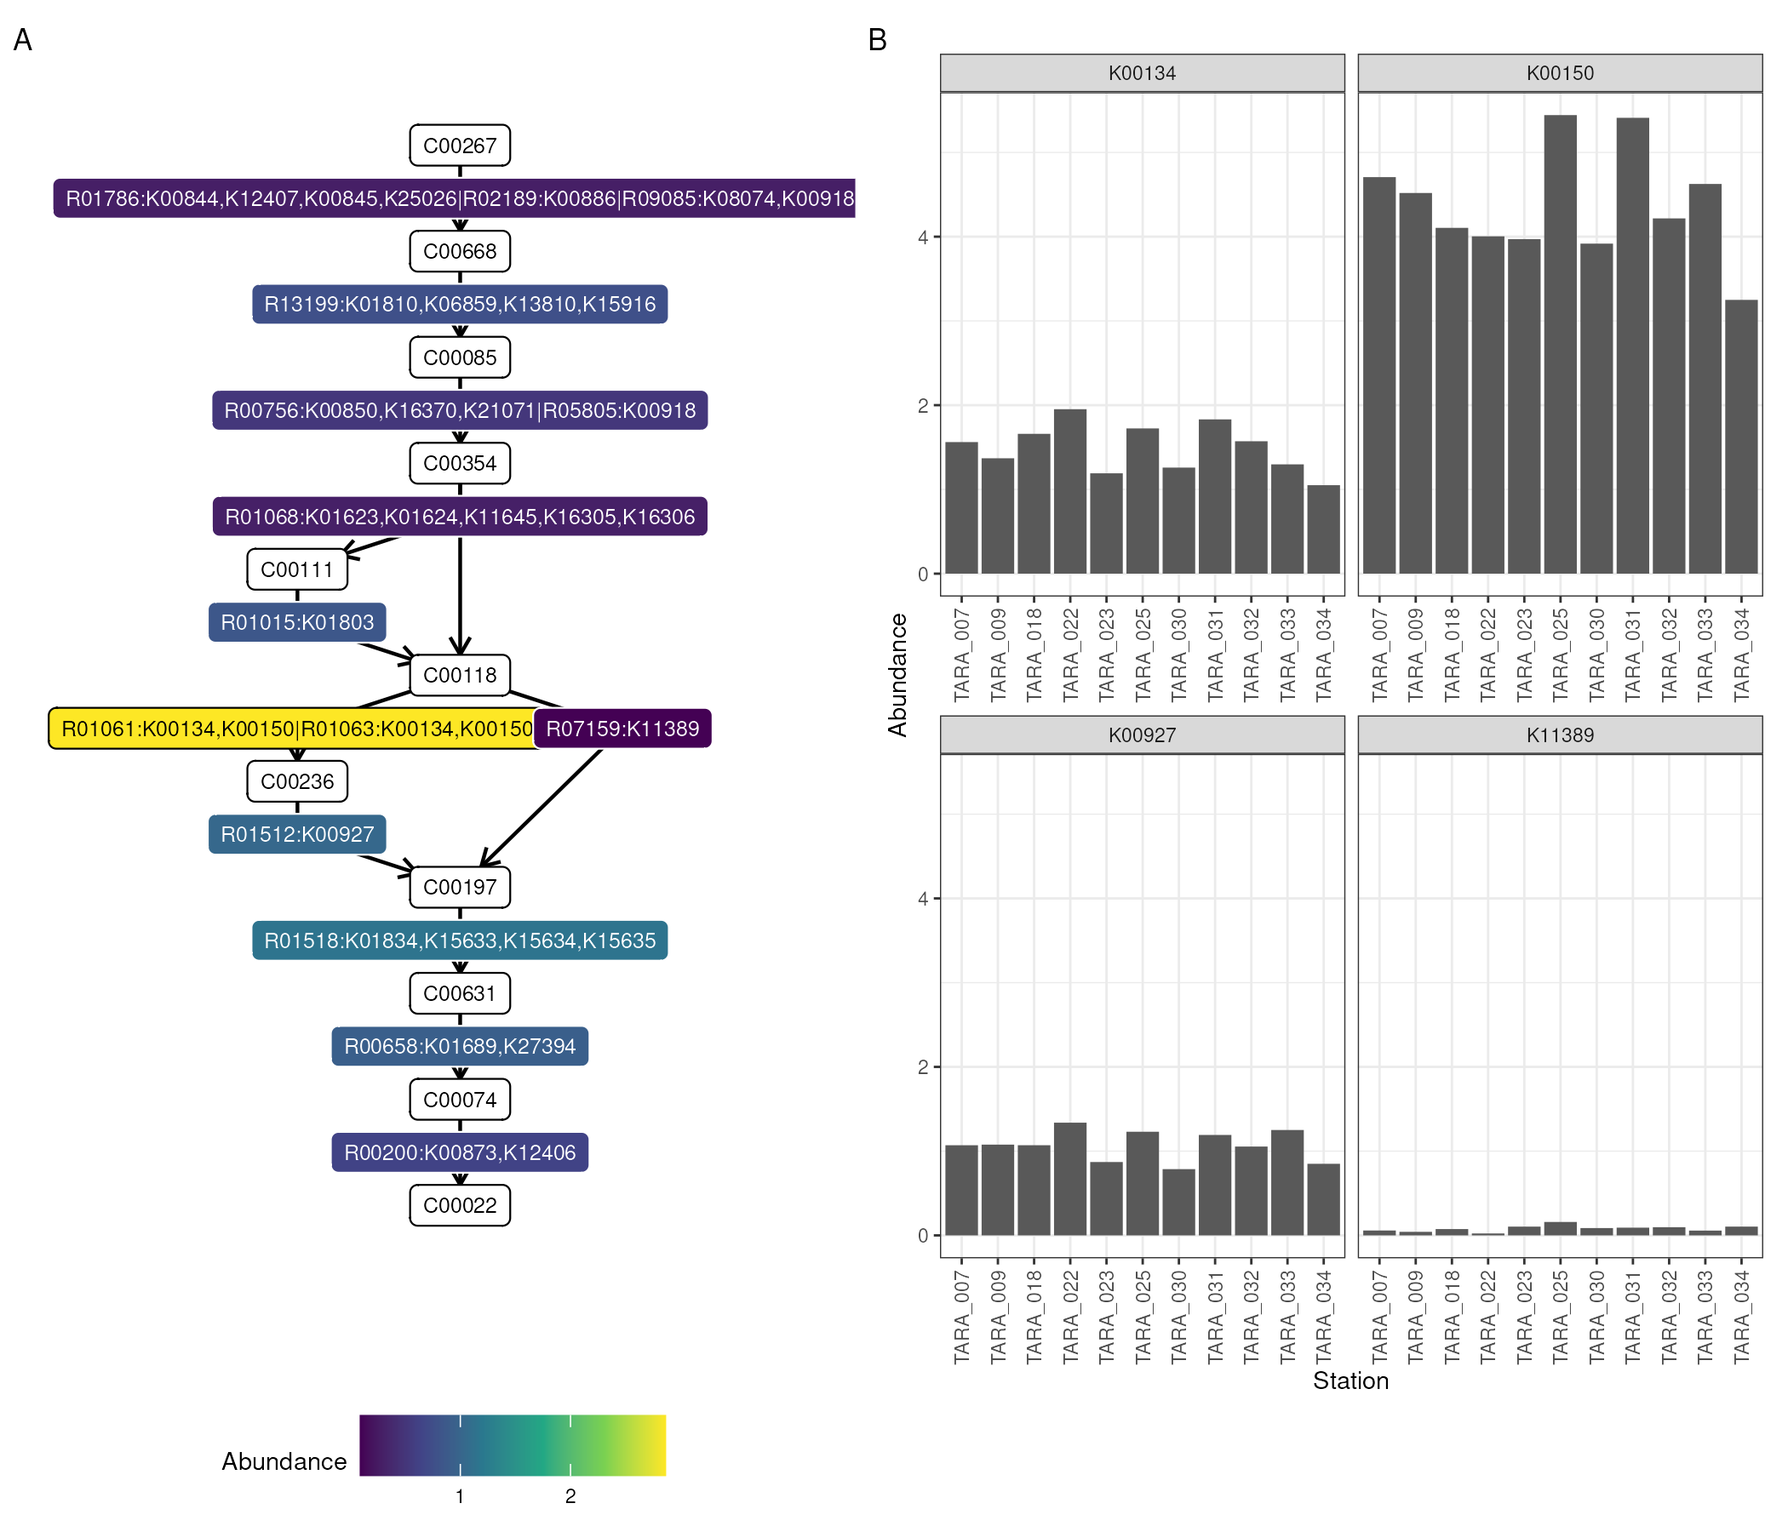
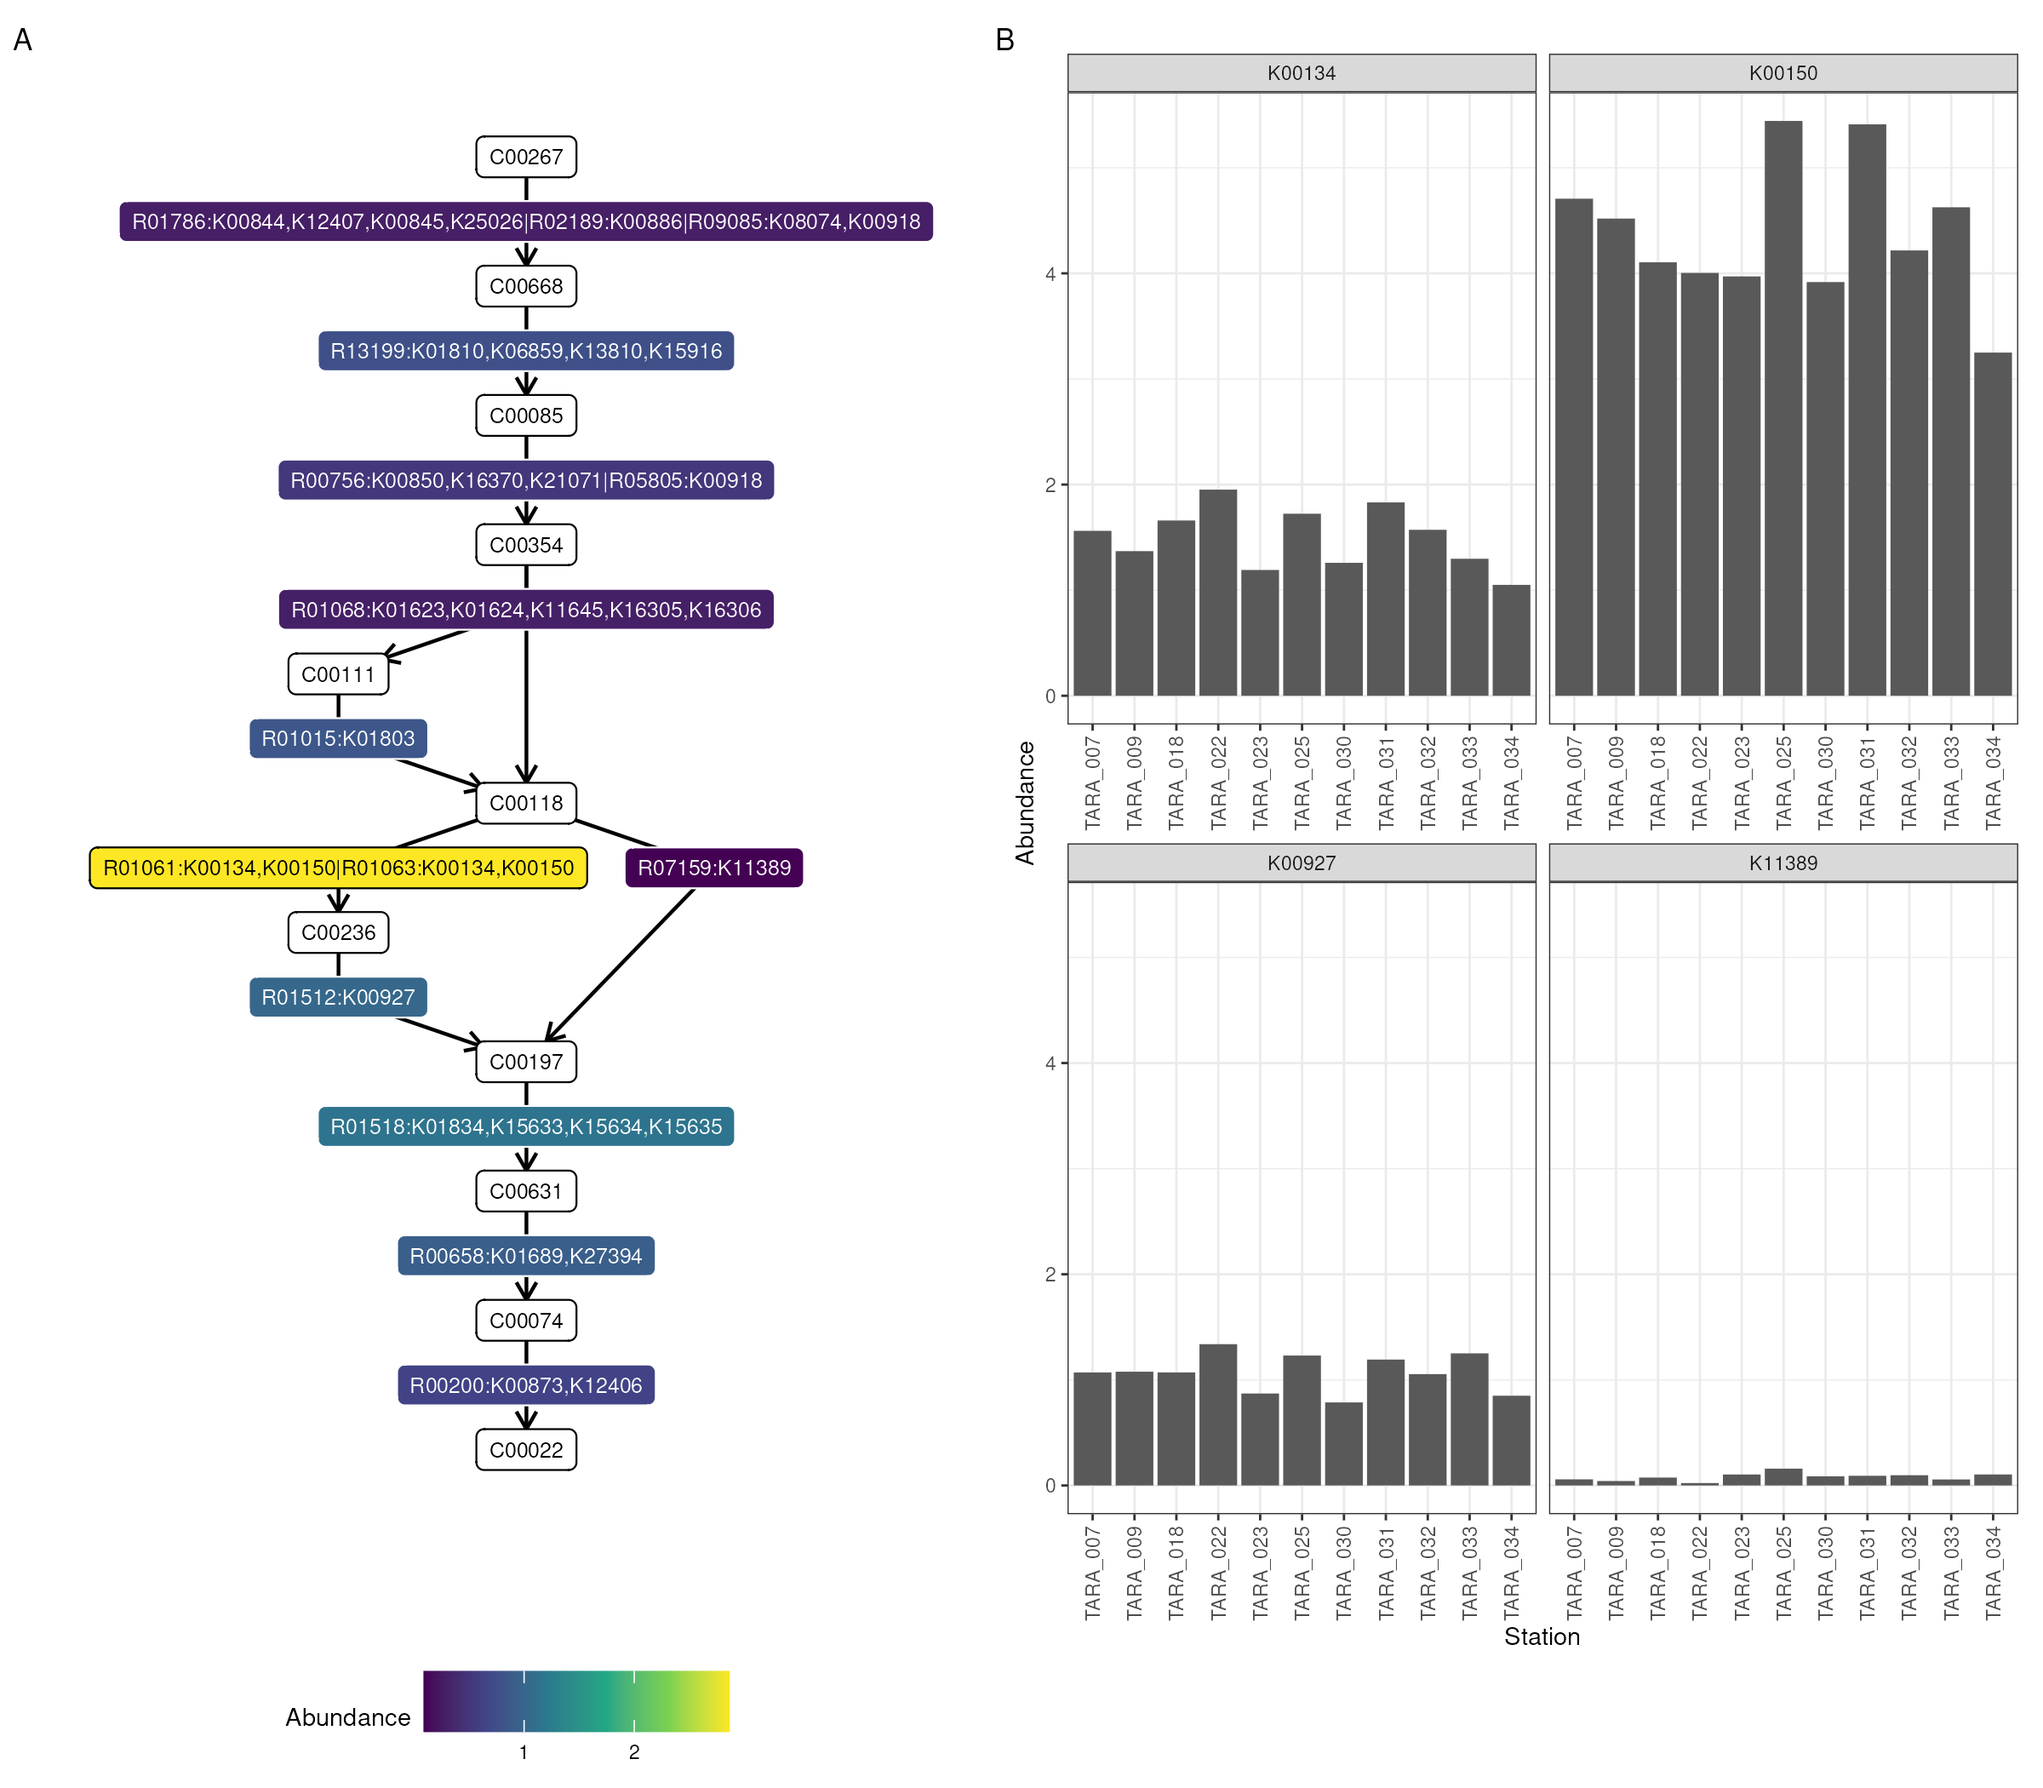
update readme and figures

diff --git a/README.md b/README.md
@@ -89,6 +89,7 @@ mags_hits <- get_hits_depths_from_hmm(
 theme_set(theme_bw(base_size = 7))
 
 p1 <- barplot_depths(mags_hits, group = "Station", fill = "Phylum", wrap = c("Gene", "Province")) +
+  guides(fill = guide_legend(title.position = "top")) +
   theme(
     legend.key.size = unit(0.4, "cm")
     # axis.text.x = element_text(angle = 90, hjust = 1, vjust = 0.5)
@@ -99,9 +100,10 @@ p2 <- boxplot_depths(mags_hits$cysNC, x = "Province", signif = TRUE, show.legend
 
 p3 <- keggmodule_plot(sulfur_assimilation, setNames(mags_hits, interesting_KOs)) +
   expand_limits(x = c(-0.65, 1.45)) +
+  guides(fill = guide_colorbar(title.position = "top")) +
   theme_void(base_size = base_size)
 
-((p1 | (p2 / p3)) & theme(legend.position = "bottom")) +
+((p1 | (p2 / p3)) & theme(legend.position = "bottom"))  +
   plot_layout(guides = "collect") +
   plot_annotation(tag_levels = "A")
 ```
@@ -157,19 +159,18 @@ contigs_hits <- get_hits_depths_from_hmm(
 theme_set(theme_bw(base_size = 7))
 
 p1 <- keggmodule_plot(glycolysis, contigs_hits) +
-  expand_limits(x = c(-7, 1.6)) +
+  expand_limits(x = c(-0.7, 1.6)) +
   theme_void(base_size = base_size) +
   theme(legend.position = "bottom")
 
 selected_kos <- c("K00134", "K00150", "K11389", "K00927")
 p2 <- barplot_depths(contigs_hits[selected_kos], group = "Station", wrap = "Gene") +
-  guides(fill = guide_legend(ncol = 1)) +
   theme(
     axis.text.x = element_text(angle = 90, hjust = 1, vjust = 0.5)
   )
 
-(p1 | p2)+
+(p1 | p2) +
   plot_annotation(tag_levels = "A")
 ```
 
-![](paper/figures/contigs_second_patchwork.png)
+![](paper/figures/mags_second_patchwork.png)
